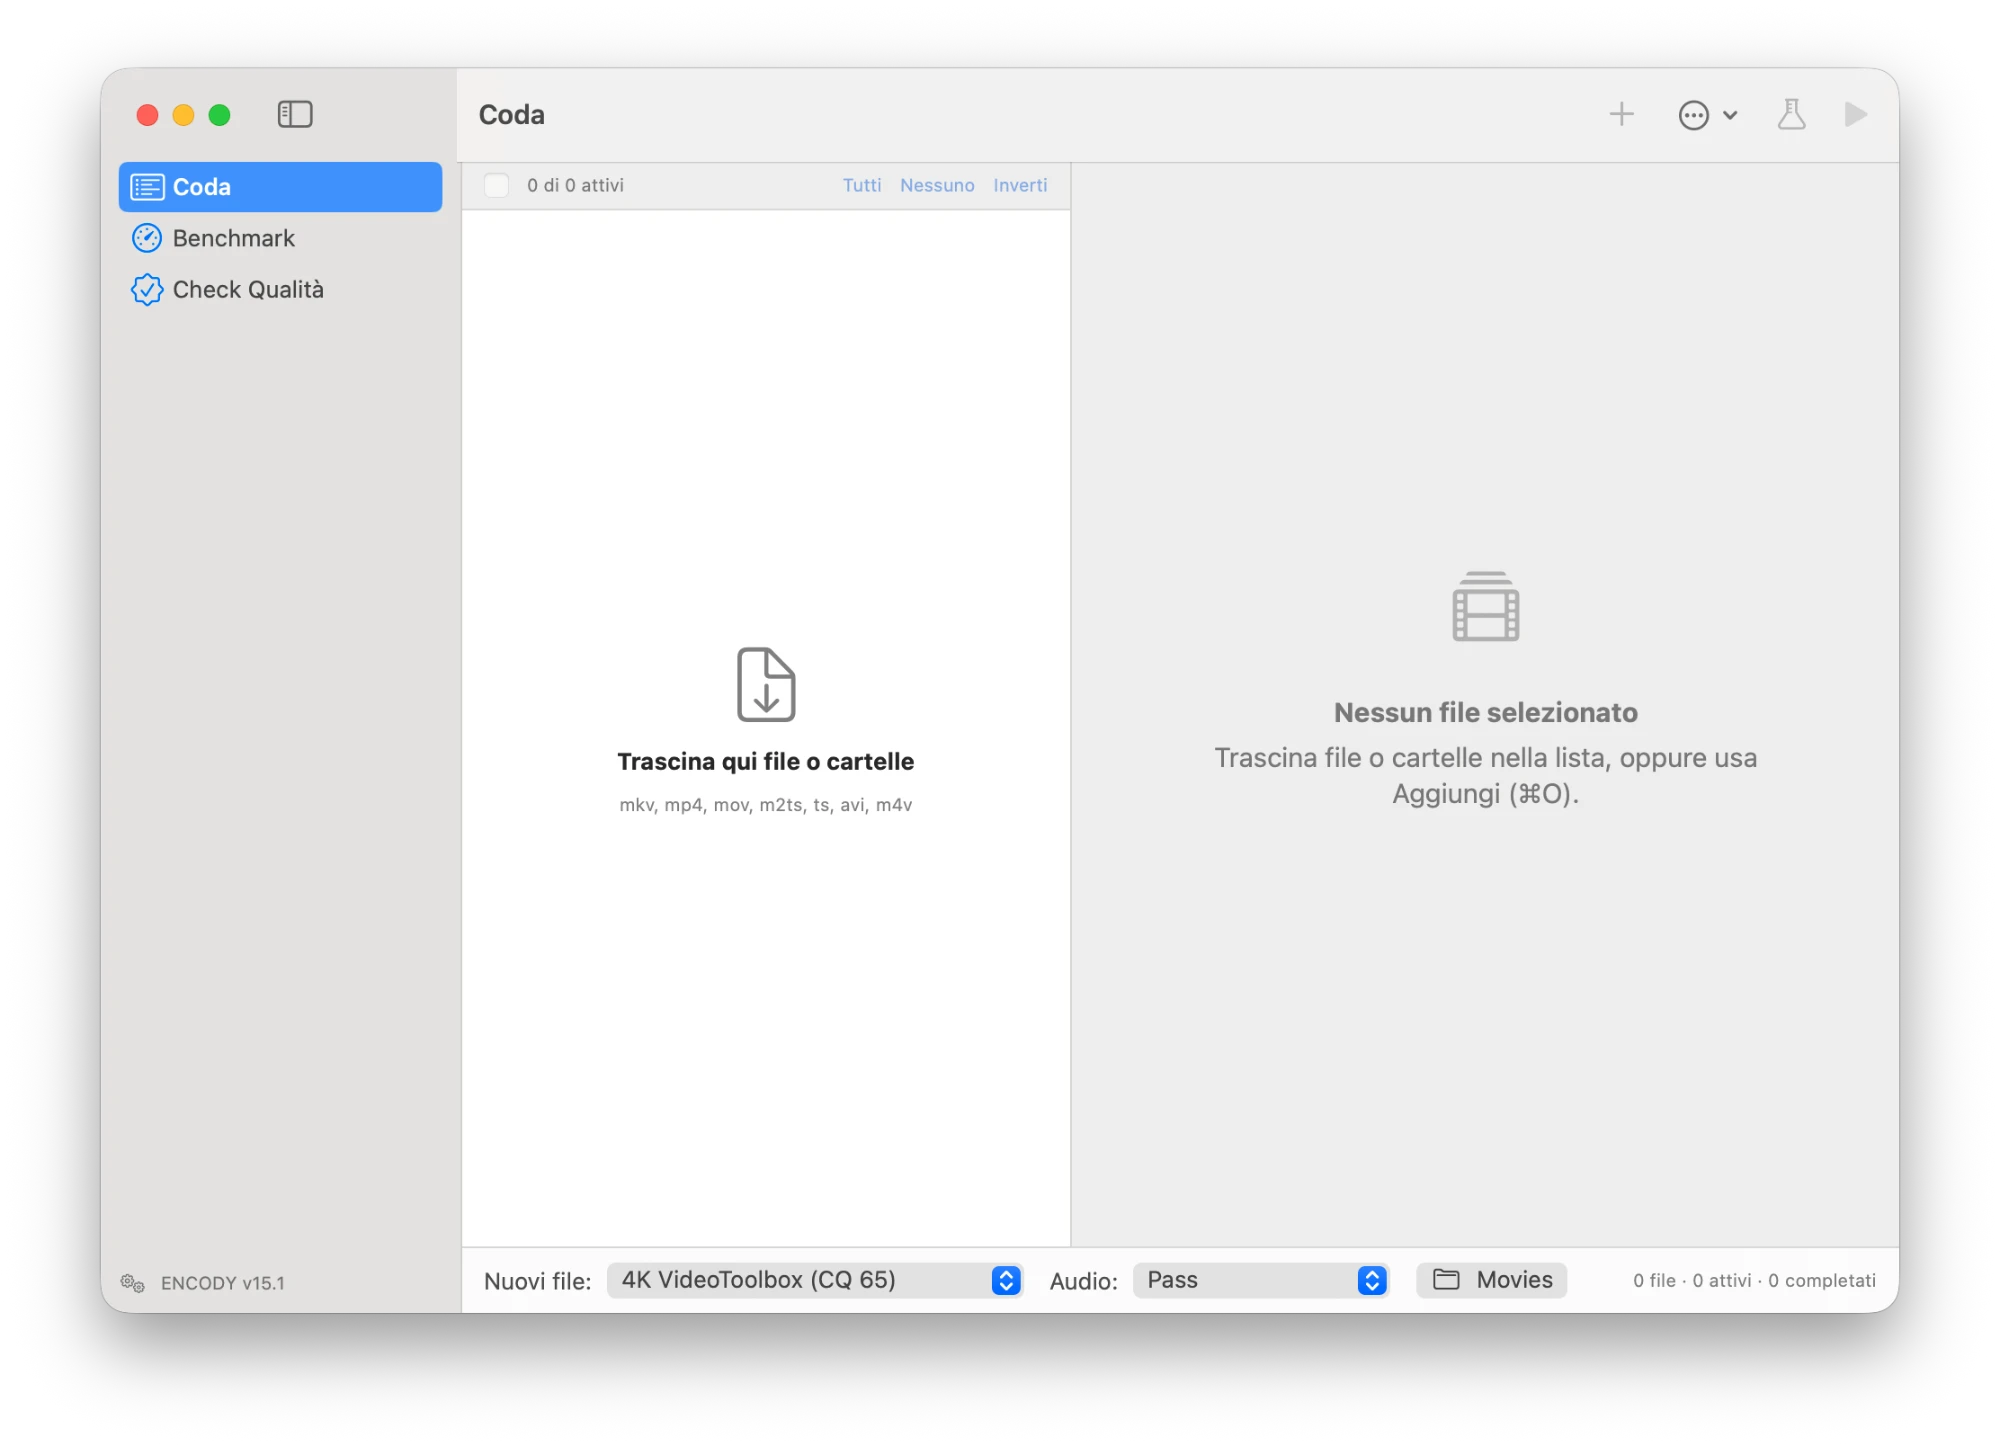
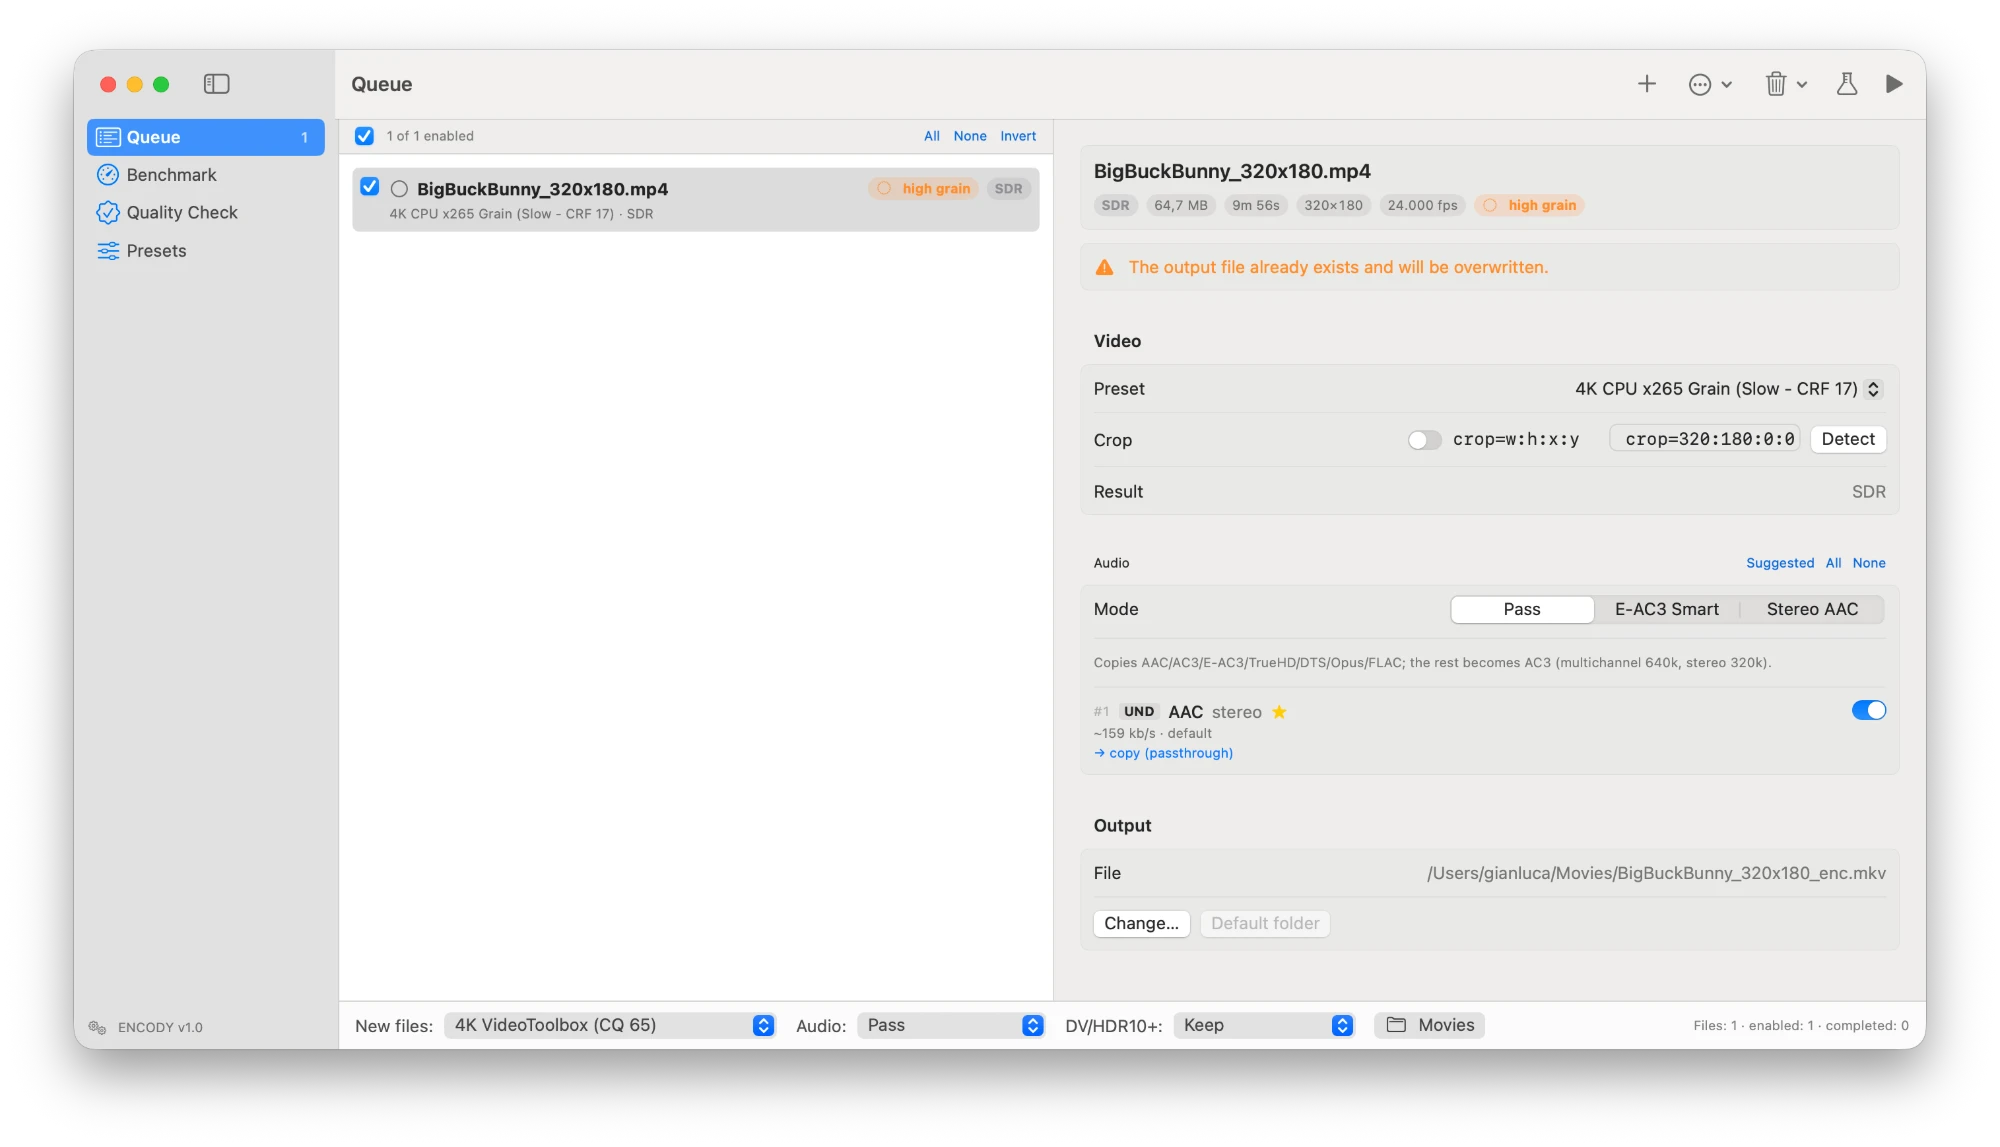
Skip grain measurement below 720p, English README screenshot
- Below 720p film grain cannot be told apart from compression artifacts
  (Big Buck Bunny 320x180, a cartoon, was flagged as high grain): the engine
  now reports it as not measured; grain cache version bumped
- README screenshot of the English interface

diff --git a/engine/grain.go b/engine/grain.go
@@ -6,7 +6,7 @@
 // (cielo, pareti): lì il dettaglio vero non c'è e resta solo la grana. Si considerano solo i
 // mezzitoni, così bande nere, ombre profonde e luci bruciate non falsano la misura.
 // Indice = mediana sui frame, in codici a 10 bit. Tarato su L'Impero colpisce ancora (BDRemux, 2,8)
-// e Loki (WEB-DL x265, 0,4–0,7).
+// e Loki (WEB-DL x265, 0,4–0,7). Sotto i 720p non si misura.
 package main
 
 import (
@@ -26,7 +26,8 @@ import (
 const (
 	grainPoints     = 15
 	grainBlock      = 16
-	grainVersion    = 1
+	grainVersion    = 2 // 2: niente misura sotto i 720p
+	grainMinHeight  = 720
 	GrainMediumFrom = 1.0 // sotto: grana bassa
 	GrainHighFrom   = 2.0
 )
@@ -36,6 +37,7 @@ type GrainResult struct {
 	Index   float64 `json:"index"`
 	Level   string  `json:"level"` // low | medium | high
 	Points  int     `json:"points"`
+	Skipped bool    `json:"skipped,omitempty"` // risoluzione troppo bassa: non misurata
 }
 
 func grainLevel(v float64) string {
@@ -62,6 +64,11 @@ func measureGrain(ctx context.Context, src string, info *MediaInfo) (GrainResult
 				return g, nil
 			}
 		}
+	}
+	// Sotto i 720p la grana di pellicola non si distingue dagli artefatti di compressione
+	// (Big Buck Bunny 320×180, un cartone animato, risultava "grana alta"): non si misura
+	if info.Height > 0 && info.Height < grainMinHeight {
+		return GrainResult{Version: grainVersion, Level: "low", Skipped: true}, nil
 	}
 	if info.Width <= 0 || info.Height <= 0 || info.Duration <= 0 {
 		return GrainResult{}, errors.New(T("dimensioni o durata del video sconosciute"))
